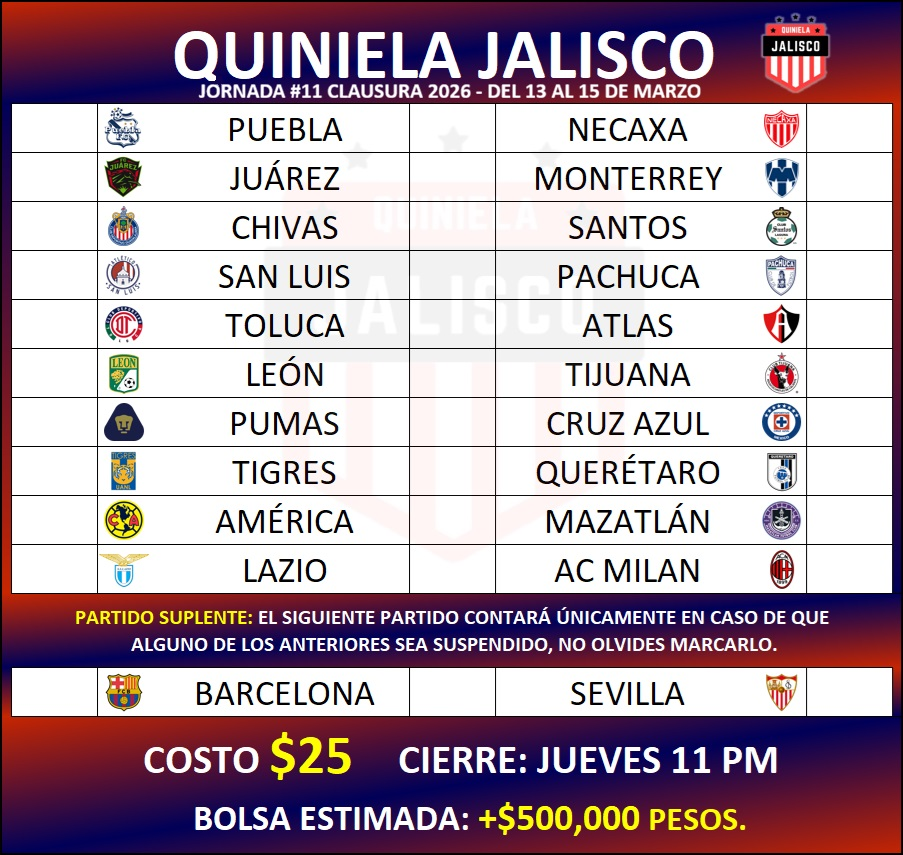
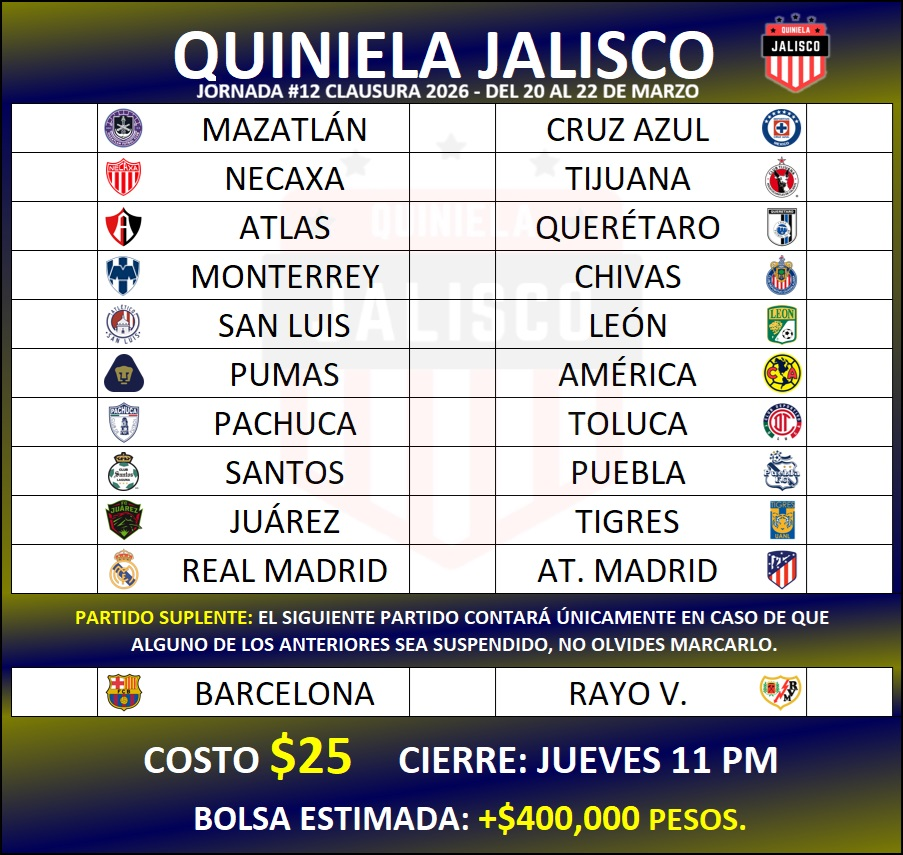
Jornada 12 C26

diff --git a/11/styles11.css b/11/styles11.css
@@ -95,8 +95,8 @@ body{
     margin-top: 8.5%;
     border-top: solid 1px black;
     border-radius: 0 0 14px 14px;
-    background: -webkit-linear-gradient(0.49turn, rgb(112,21,39) -7%, rgb(1,4,96) 80%);
-    background: linear-gradient(0.49turn, rgb(112,21,39) -7%, rgb(1,4,96) 80%);
+    background: -webkit-linear-gradient(0.49turn, rgb(70,70,40) -7%, rgb(1,4,96) 80%);
+    background: linear-gradient(0.49turn, rgb(70,70,40) -7%, rgb(1,4,96) 80%);
 }
 
 .text-lg{
@@ -295,7 +295,7 @@ h6{
 }
 
 #cantidad:before{
-    content:'+$500,000 pesos';
+    content:'+$400,000 pesos';
     color: yellow;
     white-space:pre;
 }
